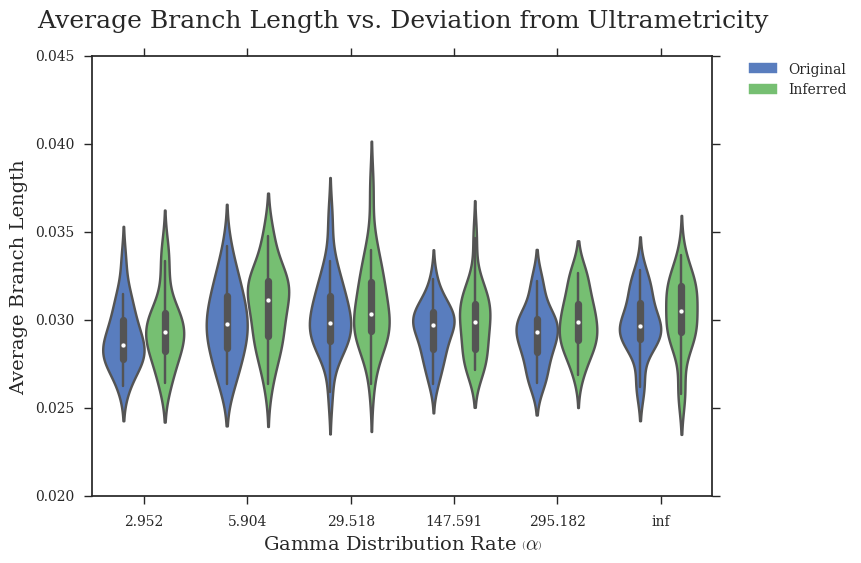
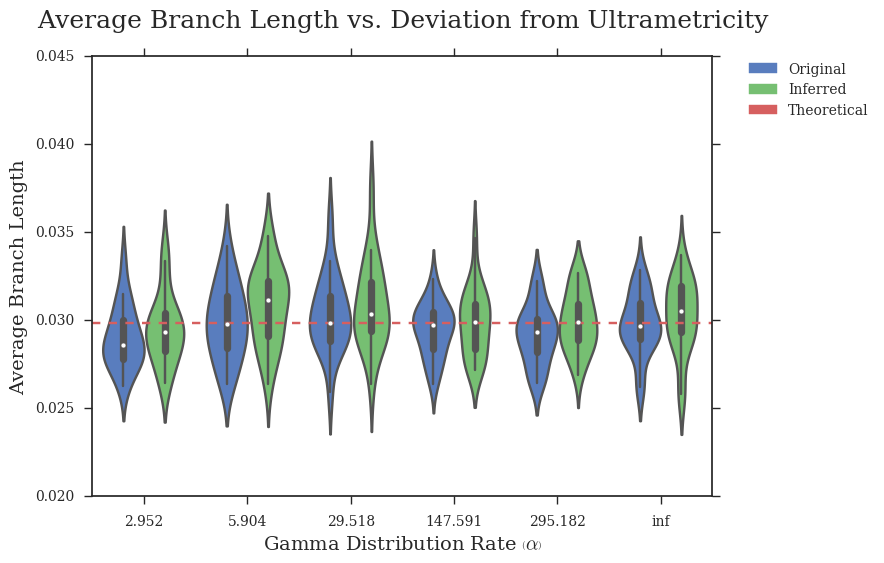
Added theoretical lines

diff --git a/figures/scripts/2_average-branch-length-vs-params.py b/figures/scripts/2_average-branch-length-vs-params.py
@@ -204,7 +204,8 @@ for i in range(len(k_original['avgbranch'])):
 df = pd.DataFrame(df)
 #ax = sns.boxplot(x='length',y='avgbranch',hue='category',data=df,order=x,palette='muted')
 ax = sns.violinplot(x='length',y='avgbranch',hue='category',data=df,order=x,palette='muted')
-handles = [Patch(color='#597DBE',label='Original'),Patch(color='#76BF72',label='Inferred')]
+plt.plot(np.linspace(-4.5,1000,100)+4,[0.0298238593208140]*100,label='Theoretical',linestyle='--',color='#D65F5F')
+handles = [Patch(color='#597DBE',label='Original'),Patch(color='#76BF72',label='Inferred'),Patch(color='#D65F5F',label='Theoretical')]
 legend = plt.legend(handles=handles,bbox_to_anchor=(1.05, 1), loc=2, borderaxespad=0.)
 sns.plt.xlabel('Sequence Length',fontsize=14)
 sns.plt.ylabel('Average Branch Length',fontsize=14)
@@ -229,7 +230,8 @@ for i in range(len(g_original['avgbranch'])):
 df = pd.DataFrame(df)
 #ax = sns.boxplot(x='gammarate',y='avgbranch',hue='category',data=df,order=x,palette='muted')
 ax = sns.violinplot(x='gammarate',y='avgbranch',hue='category',data=df,order=x,palette='muted')
-handles = [Patch(color='#597DBE',label='Original'),Patch(color='#76BF72',label='Inferred')]
+plt.plot(np.linspace(-4.5,1000,100)+4,[0.0298238593208140]*100,label='Theoretical',linestyle='--',color='#D65F5F')
+handles = [Patch(color='#597DBE',label='Original'),Patch(color='#76BF72',label='Inferred'),Patch(color='#D65F5F',label='Theoretical')]
 legend = plt.legend(handles=handles,bbox_to_anchor=(1.05, 1), loc=2, borderaxespad=0.)
 sns.plt.xlabel(r'Gamma Distribution Rate $\left(\alpha\right)$',fontsize=14)
 sns.plt.ylabel('Average Branch Length',fontsize=14)
